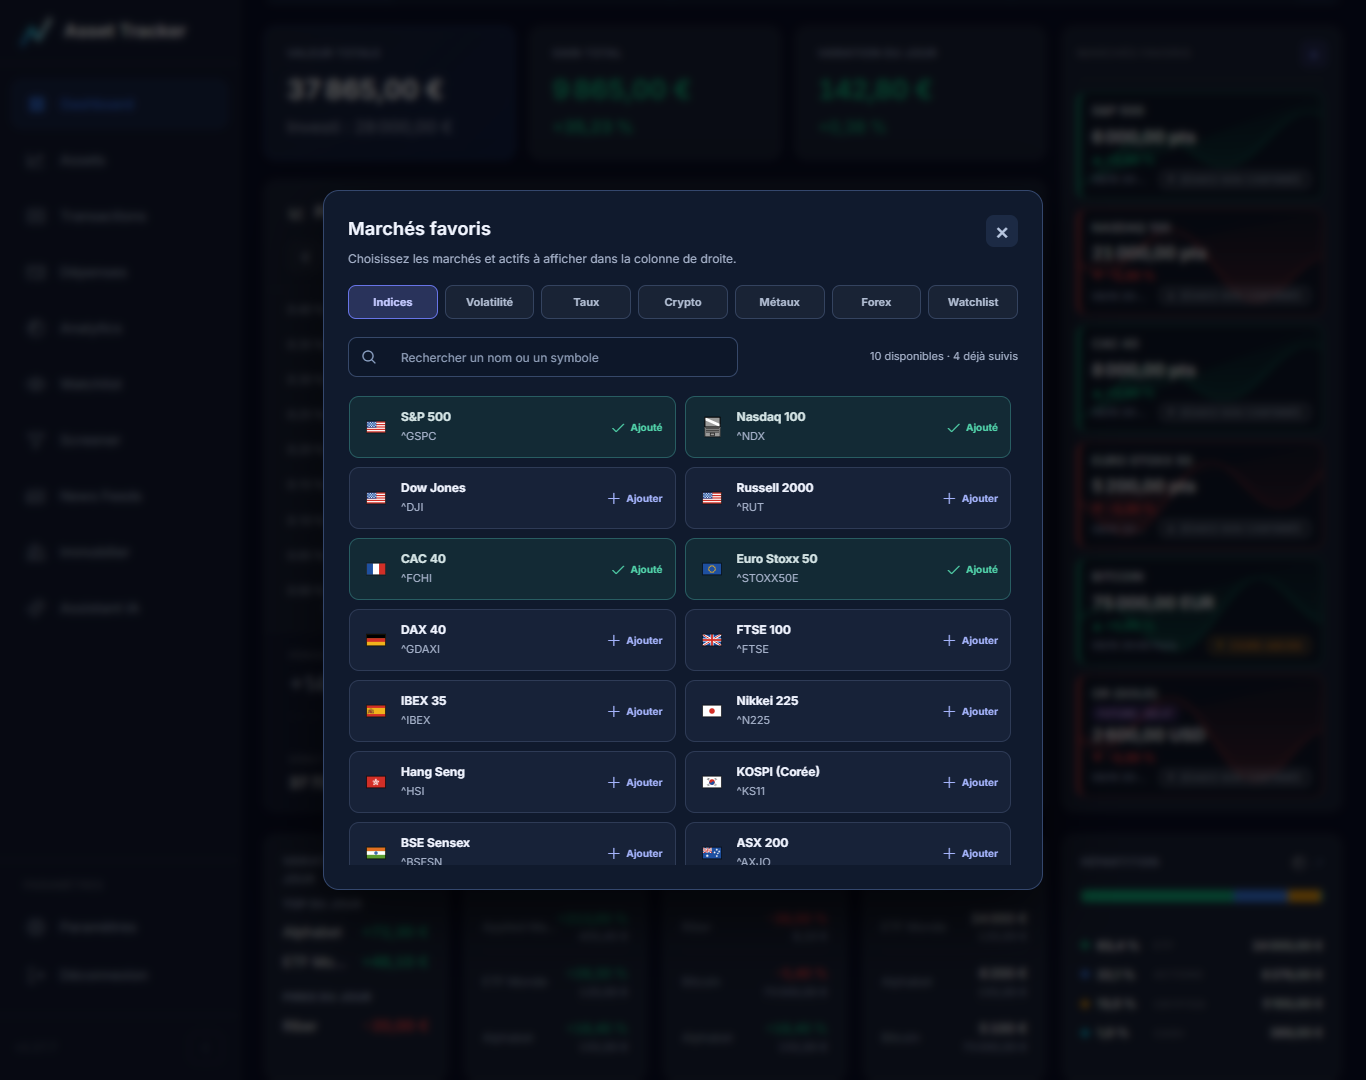
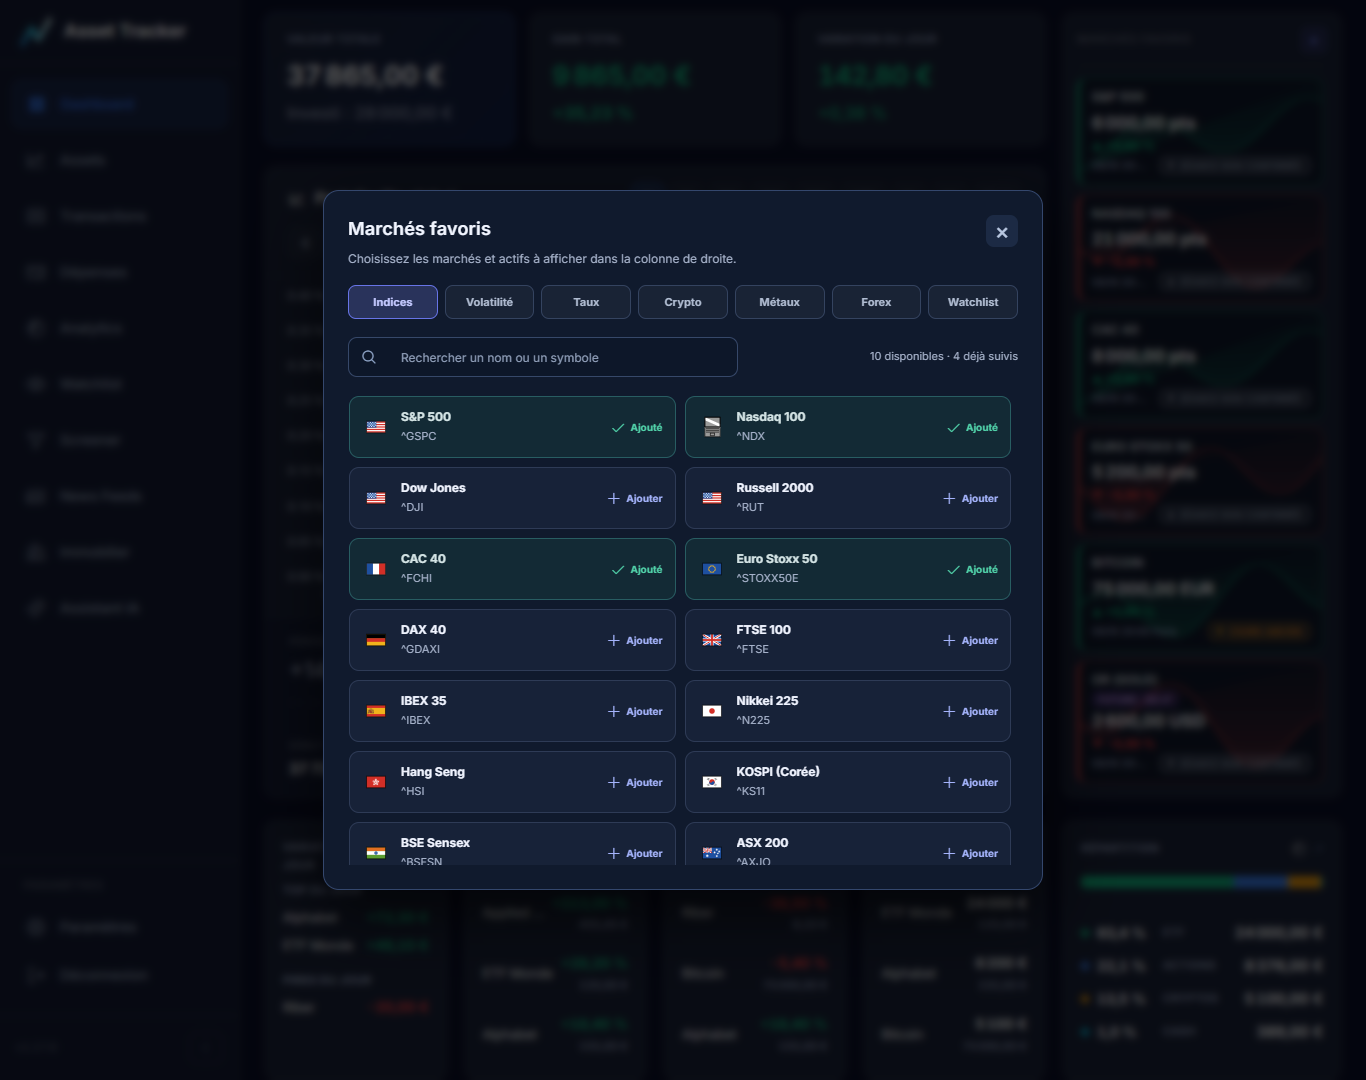
fix taille text kpi sec

diff --git a/css/dashboard-premium.css b/css/dashboard-premium.css
@@ -25,11 +25,29 @@
 .dashboard-premium .kpi-card[role="button"] .kpi-header .kpi-label { margin-right: auto; }
 .dashboard-premium .kpi-card[role="button"] .kpi-header::after { content: "↗"; margin-left: 7px; color: #8ab7ff; font-size: 12px; opacity: .75; }
 .dashboard-premium .kpi-label { color: #acb8d0; font-size: 11px; }
-.dashboard-premium .kpi-list-host { margin: 0; font-size: 13px; font-weight: 400; }
-.dashboard-premium .kpi-row-name { font-size: 12px; max-width: none; }
+/* KPI cards share the type scale of "Variation du jour": 14 px names,
+   15 px bold values, 12 px muted secondary values, 11 px uppercase labels. */
+.dashboard-premium .kpi-list-host { margin: 0; font-size: 14px; font-weight: 400; }
+.dashboard-premium .kpi-list-container { gap: 6px; margin-top: 4px; }
+.dashboard-premium .kpi-list-row { gap: 10px; padding: 6px 0; font-size: 14px; }
+.dashboard-premium .kpi-row-name { font-size: 14px; max-width: none; color: var(--text-primary); }
 .dashboard-premium .kpi-row-left { min-width: 0; }
-.dashboard-premium .kpi-row-right { font-size: 13px; flex-shrink: 0; font-variant-numeric: tabular-nums; }
-.dashboard-premium .kpi-row-right .kpi-sub-value { font-size: 11px; color: var(--dashboard-muted); }
+.dashboard-premium .kpi-row-right { font-size: 15px; font-weight: 700; flex-shrink: 0; font-variant-numeric: tabular-nums; }
+.dashboard-premium .kpi-row-right .kpi-sub-value { margin-top: 2px; font-size: 12px; font-weight: 500; color: var(--dashboard-muted); }
+.dashboard-premium .allocation-list { gap: 9px; }
+.dashboard-premium .alloc-row { gap: 8px; font-size: 14px; }
+.dashboard-premium .alloc-left { min-width: 0; }
+.dashboard-premium .alloc-pct { min-width: 54px; font-size: 14px; font-variant-numeric: tabular-nums; }
+.dashboard-premium .alloc-label { font-size: 11px; color: var(--dashboard-muted); letter-spacing: .04em; }
+.dashboard-premium .alloc-right span { font-family: inherit; font-size: 15px; font-weight: 700; font-variant-numeric: tabular-nums; white-space: nowrap; }
+/* Narrow cards (about 180 px at 1366 px): one step smaller, names stay readable. */
+.dashboard-premium .dashboard-kpi-grid-v2 > .kpi-card { container-type: inline-size; }
+@container (max-width: 220px) {
+    .dashboard-premium .kpi-row-name, .dashboard-premium .contribution-kpi-row { font-size: 13px; }
+    .dashboard-premium .kpi-row-right, .dashboard-premium .contribution-kpi-row strong { font-size: 14px; }
+    .dashboard-premium .kpi-row-right .kpi-sub-value { font-size: 11px; }
+    .dashboard-premium .kpi-list-row, .dashboard-premium .contribution-kpi-row { gap: 6px; }
+}
 .dashboard-premium .contribution-kpi-card { display: flex; flex-direction: column; }
 .contribution-highlights { display: flex; flex-direction: column; gap: 12px; flex: 1; min-width: 0; }
 .contribution-kpi-group { min-width: 0; }
@@ -248,9 +266,9 @@
     .dashboard-premium .kpi-card { padding: 16px !important; }
     .dashboard-premium .feed-card { height: auto !important; }
     .dashboard-premium .kpi-label { font-size: 11px !important; }
-    .dashboard-premium .kpi-row-name { font-size: 13px !important; max-width: none !important; }
-    .dashboard-premium .kpi-row-right { font-size: 13px !important; }
-    .dashboard-premium .kpi-row-right .kpi-sub-value { font-size: 11px !important; }
+    .dashboard-premium .kpi-row-name { font-size: 14px !important; max-width: none !important; }
+    .dashboard-premium .kpi-row-right { font-size: 15px !important; }
+    .dashboard-premium .kpi-row-right .kpi-sub-value { font-size: 12px !important; }
     .dashboard-premium .kpi-list-row { padding: 8px 0 !important; }
     .dashboard-premium .indices-list { grid-template-columns: repeat(2, minmax(0, 1fr)); }
     .dashboard-premium .market-card-price { font-size: 14px; }

diff --git a/dashboard.html b/dashboard.html
@@ -17,7 +17,7 @@
     <link rel="stylesheet" href="css/dashboard.css?v=102">
     <link rel="stylesheet" href="css/dashboard-mobile.css?v=6">
     <link rel="stylesheet" href="css/chart-toolbar.css?v=7">
-    <link rel="stylesheet" href="css/dashboard-premium.css?v=12">
+    <link rel="stylesheet" href="css/dashboard-premium.css?v=14">
 
     <link rel="preconnect" href="https://fonts.googleapis.com">
     <link rel="preconnect" href="https://fonts.gstatic.com" crossorigin>

diff --git a/RELEASES.md b/RELEASES.md
@@ -33,6 +33,7 @@ sont pas assimilés à de nouvelles fonctionnalités.
 | `1.17.6` | 2026-10-12 | fix modal futures badges 1 | — |
 | `1.17.7` | 2026-10-12 | fix timesquare | — |
 | `1.17.8` | 2026-10-12 | fix alignement div | — |
+| `1.17.9` | 2026-10-12 | fix taille text kpi sec | — |
 
 Les messages de commit pilotent les nouvelles versions. Les scripts de
 déploiement ajoutent désormais aussi chaque correctif à ce tableau avant les
